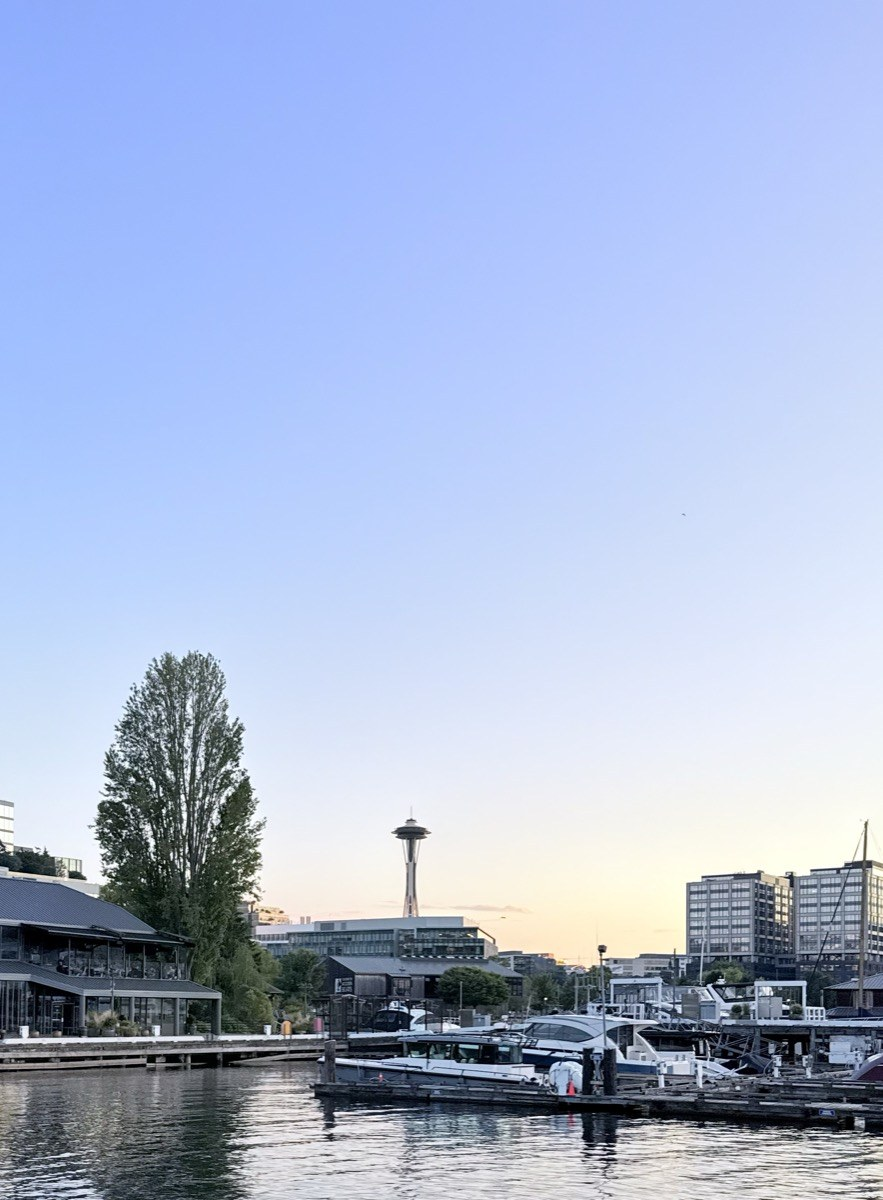
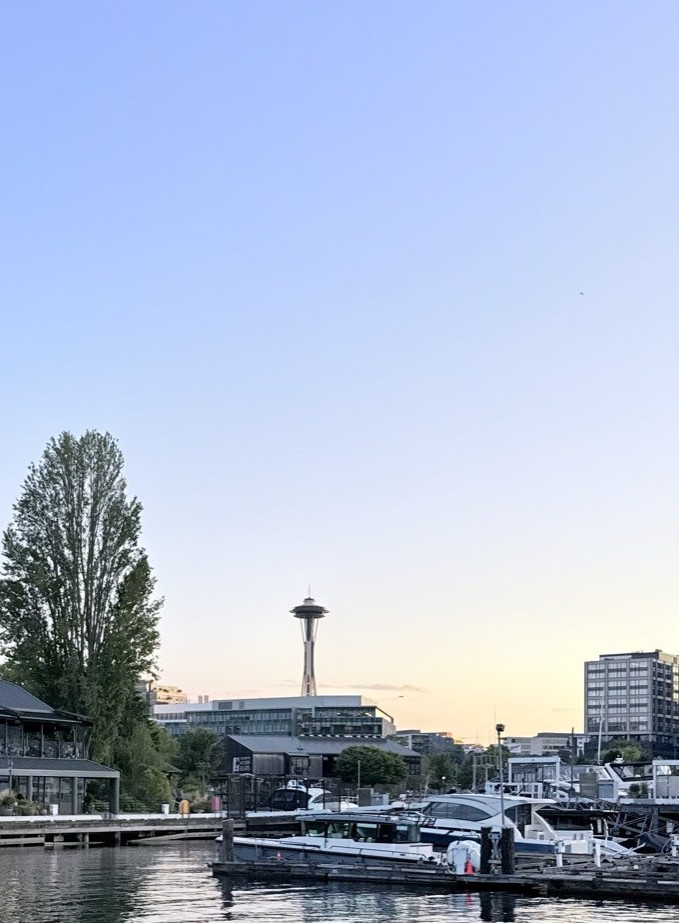
Slow + de-clump bubbles; zoom Space Needle and Rainier photos
Bubbles: longer fall time, fewer on screen at once, less frequent spawns,
and a more spread-out initial burst.
Photos: zoom the Space Needle and Mt. Rainier strip photos ~1.3x so the
subjects read more prominently while staying natural.

Changed region(s): [[0.0, 0.455, 1.0, 1.0]]

diff --git a/app.js b/app.js
@@ -183,7 +183,7 @@
   let active = false, raf = null;
   let mouseX = -9999, mouseY = -9999;
 
-  const caps = () => window.innerWidth <= 768 ? { total: 6, falling: 3 } : { total: 12, falling: 5 };
+  const caps = () => window.innerWidth <= 768 ? { total: 5, falling: 2 } : { total: 10, falling: 3 };
   const aliveCount   = () => bubbles.filter(b => !b.done).length;
   const fallingCount = () => bubbles.filter(b => !b.done && b.phase === 'FALLING').length;
 
@@ -199,7 +199,7 @@
       y: isStatic ? (0.15 + Math.random()*0.7) * H : -(def.dim + 30),
       swayAmp: 14 + Math.random()*22, swayDir: Math.random() > 0.5 ? 1 : -1,
       wobPhase: Math.random()*Math.PI*2, wobSpeed: 1600 + Math.random()*1400,
-      T_FALL: 16000 + Math.random()*8000, T_LAND: 1600, T_REST: 700 + Math.random()*900, T_OUT: 800 + Math.random()*500,
+      T_FALL: 21000 + Math.random()*9000, T_LAND: 1600, T_REST: 700 + Math.random()*900, T_OUT: 800 + Math.random()*500,
       phase: opts.phase || 'FALLING',
       op: isStatic ? maxOp : 0,
       hoverScale: 1, hoverTarget: 1, t0: null, done: false,
@@ -216,7 +216,7 @@
   function spawnTick() {
     if (!active || reduceMotion) return;
     trySpawn();
-    setTimeout(spawnTick, 1000 + Math.random()*1200);
+    setTimeout(spawnTick, 1500 + Math.random()*1800);
   }
 
   /* ── Render loop (self-stopping) ─────────────────────────────────────── */
@@ -369,7 +369,7 @@
     } else {
       const n = window.innerWidth <= 768 ? 3 : 6;
       bubbles.push(createBubble());                                  // one bubble appears first
-      for (let i = 0; i < n - 1; i++) setTimeout(() => bubbles.push(createBubble()), 900 + i*120);
+      for (let i = 0; i < n - 1; i++) setTimeout(() => bubbles.push(createBubble()), 900 + i*340);
       setTimeout(spawnTick, 1800);
       ensureRaf();
     }